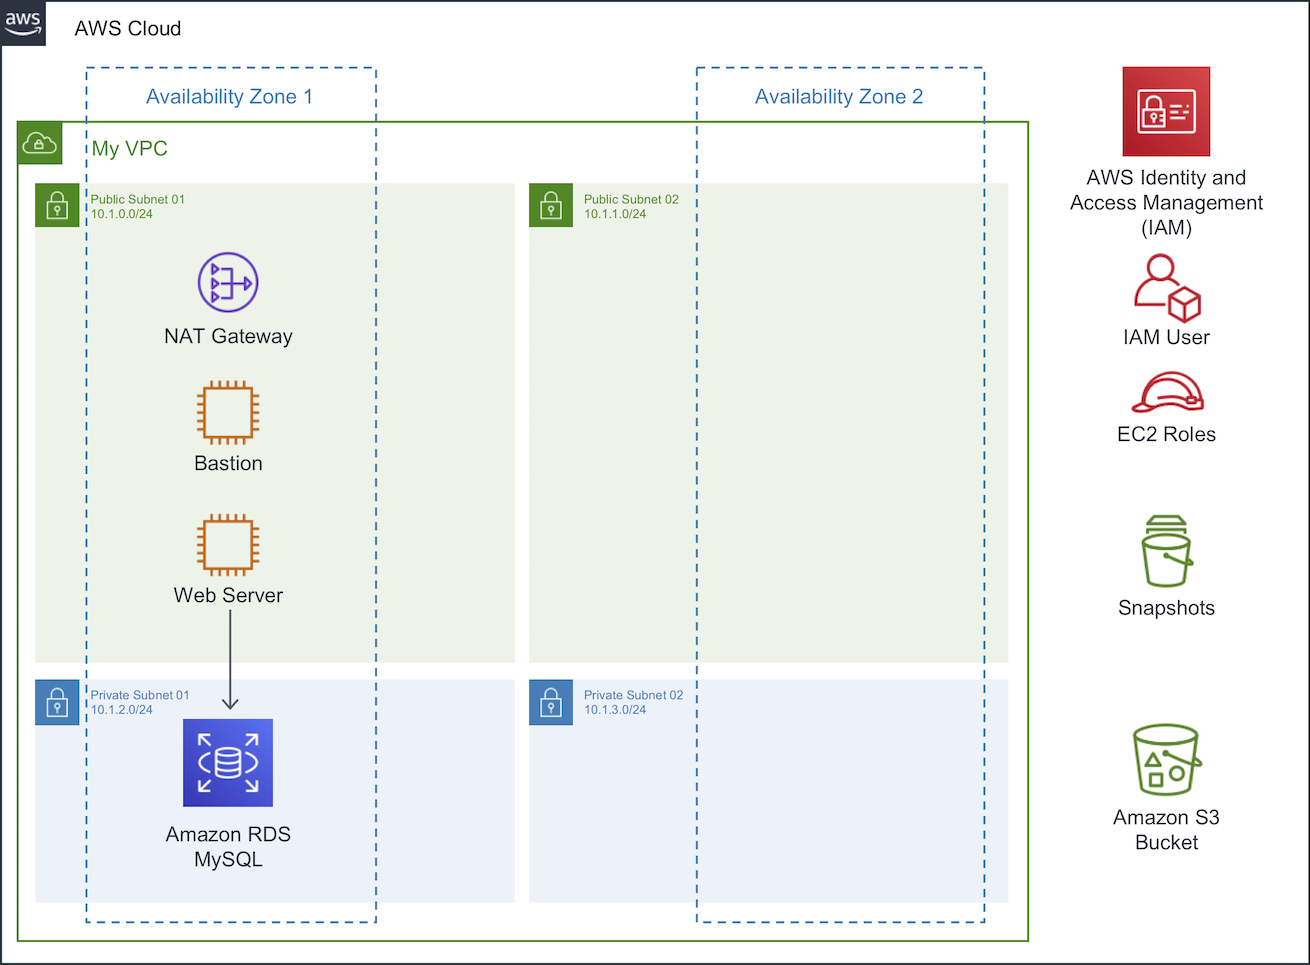
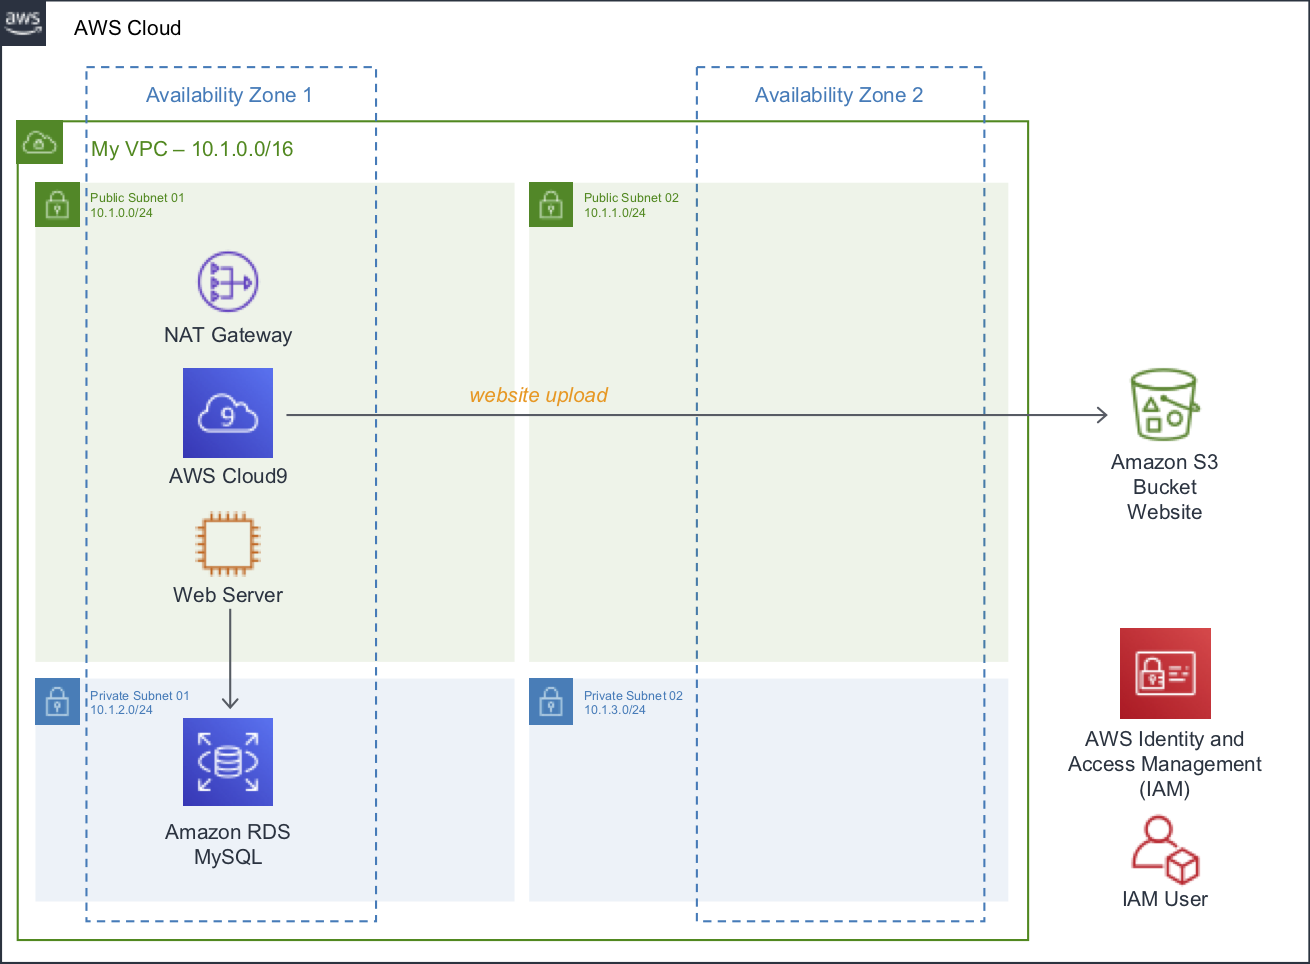
S3

diff --git a/tutorials/getting-started-with-amazon-s3.md b/tutorials/getting-started-with-amazon-s3.md
@@ -1,0 +1,87 @@
+# Getting Started with Amazon S3
+
+## 1. Create an Amazon S3 bucket
+
+1.1\.	Open the Amazon S3 console at https://console.aws.amazon.com/s3/.
+
+1.2\.	Choose **Create bucket**.
+
+1.3\.	In the **Bucket name** field, type a unique DNS-compliant name for your new bucket, for example `<your-name>-website`.
+
+* The name must be unique across all existing bucket names in Amazon S3.
+* After you create the bucket you cannot change the name, so choose wisely.
+* Choose a bucket name that reflects the objects in the bucket because the bucket name is visible in the URL that points to the objects that you're going to put in your bucket.
+
+1.4\.	For Region, choose **US East (N. Virginia)** as the region where you want the bucket to reside.
+
+1.5\.	Choose **Create**.
+
+![S3 Create](images/s3-create.png)
+
+## 2. Editing Public Access Settings for an S3 Bucket
+
+2.1\.	Open the Amazon S3 console at https://console.aws.amazon.com/s3/.
+
+2.2\.	In the **Bucket name** list, choose the name of the bucket that you created **<your-name>-website**.
+
+2.3\.	Choose **Permissions**.
+
+2.4\.	Choose **Edit** to change the public access settings for the bucket.
+
+2.5\.	Uncheck the following two options:
+
+* **Block new public ACLs and uploading public objects (Recommended).**
+* **Remove public access granted through public ACLs (Recommended).**
+
+![S3 Permissions](images/s3-permissions.png)
+
+2.6\.	Choose **Save**.
+
+2.7\.	When you're asked for confirmation, enter `confirm`. Then choose **Confirm** to save your changes.
+
+## 3. Create a Cloud9 instance to upload your static Website
+
+3.1\. Open the AWS Cloud9 console at https://console.aws.amazon.com/cloud9/.
+
+3.2\. Click on **Create environment**.
+
+![Cloud9 Create environment](images/cloud9-create.png)
+
+3.3\. For the **Name** type `MyDevelopmentInstance`, and choose **Next step**.
+
+![Cloud9 name environment](images/cloud9-name.png)
+
+3.4\. For the **Environment settings** use the default values and choose **Next step**.
+
+3.5\. Click on **Create environment**.
+
+3.6\. Wait some seconds until your development environment is ready, you will see the following screen.
+
+![Cloud9 Env](images/cloud9-env.png)
+
+3.7\. Inside the bash terminal execute the following commands, change **<you-name>-website** with your bucket name.
+
+```console
+git clone https://github.com/aurbac/static-website.git
+aws s3 cp static-website/ s3://<you-name>-website/ --recursive --exclude ".git/*" --acl public-read
+```
+
+## 4. Configure the S3 bucket for static website hosting
+
+4.1\. Open the Amazon S3 console at https://console.aws.amazon.com/s3/.
+
+4.2\. In the **Bucket name** list, choose the name of the bucket that you created **<your-name>-website**.
+
+4.3\. Choose **Properties**.
+
+4.4\. Choose **Static website hosting**.
+
+![S3 Website](images/s3-website.png)
+
+4.5\. Choose **Use this bucket to host** and for **Index document** type `index.html`, copy the **Endpoint** and click **Save**.
+
+![S3 Website Conf](images/s3-website-conf.png)
+
+4.6\. Open a new browser tab and browse the WebSite by entering Endpoint. You should see a website that looks like the following:
+
+![S3 Website](images/s3-website-live.png)

diff --git a/README.md b/README.md
@@ -18,4 +18,6 @@ This workshop is broken up into multiple modules. For building out your architec
 
 3\. [Getting Started with Linux on Amazon EC2](tutorials/getting-started-with-linux-on-amazon-ec2.md "Amazon EC2")
 
-4\. [Getting Started with Amazon RDS](tutorials/getting-started-with-amazon-rds.md "Amazon RDS")
+4\. [Getting Started with Amazon S3](tutorials/getting-started-with-amazon-s3.md "Amazon S3")
+
+5\. [Getting Started with Amazon RDS](tutorials/getting-started-with-amazon-rds.md "Amazon RDS")
